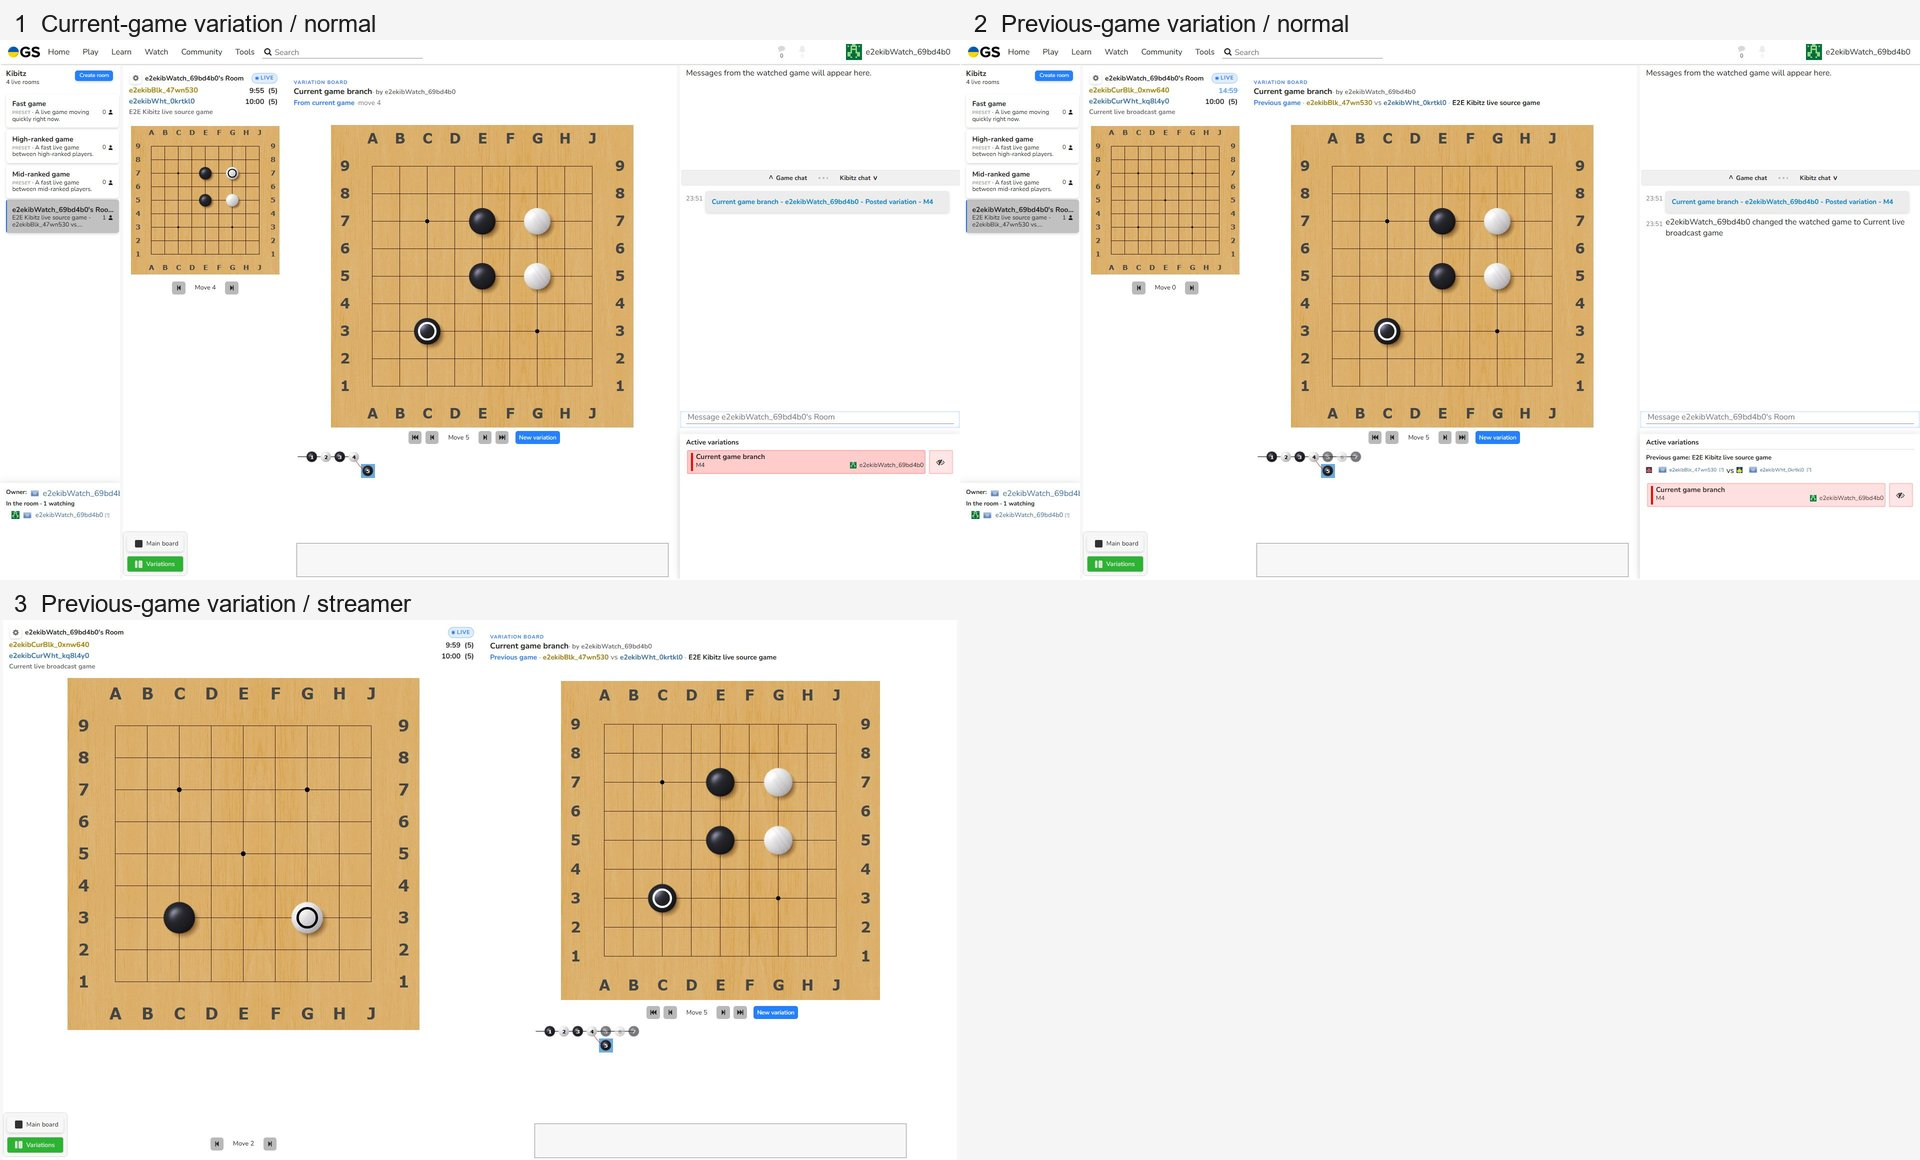
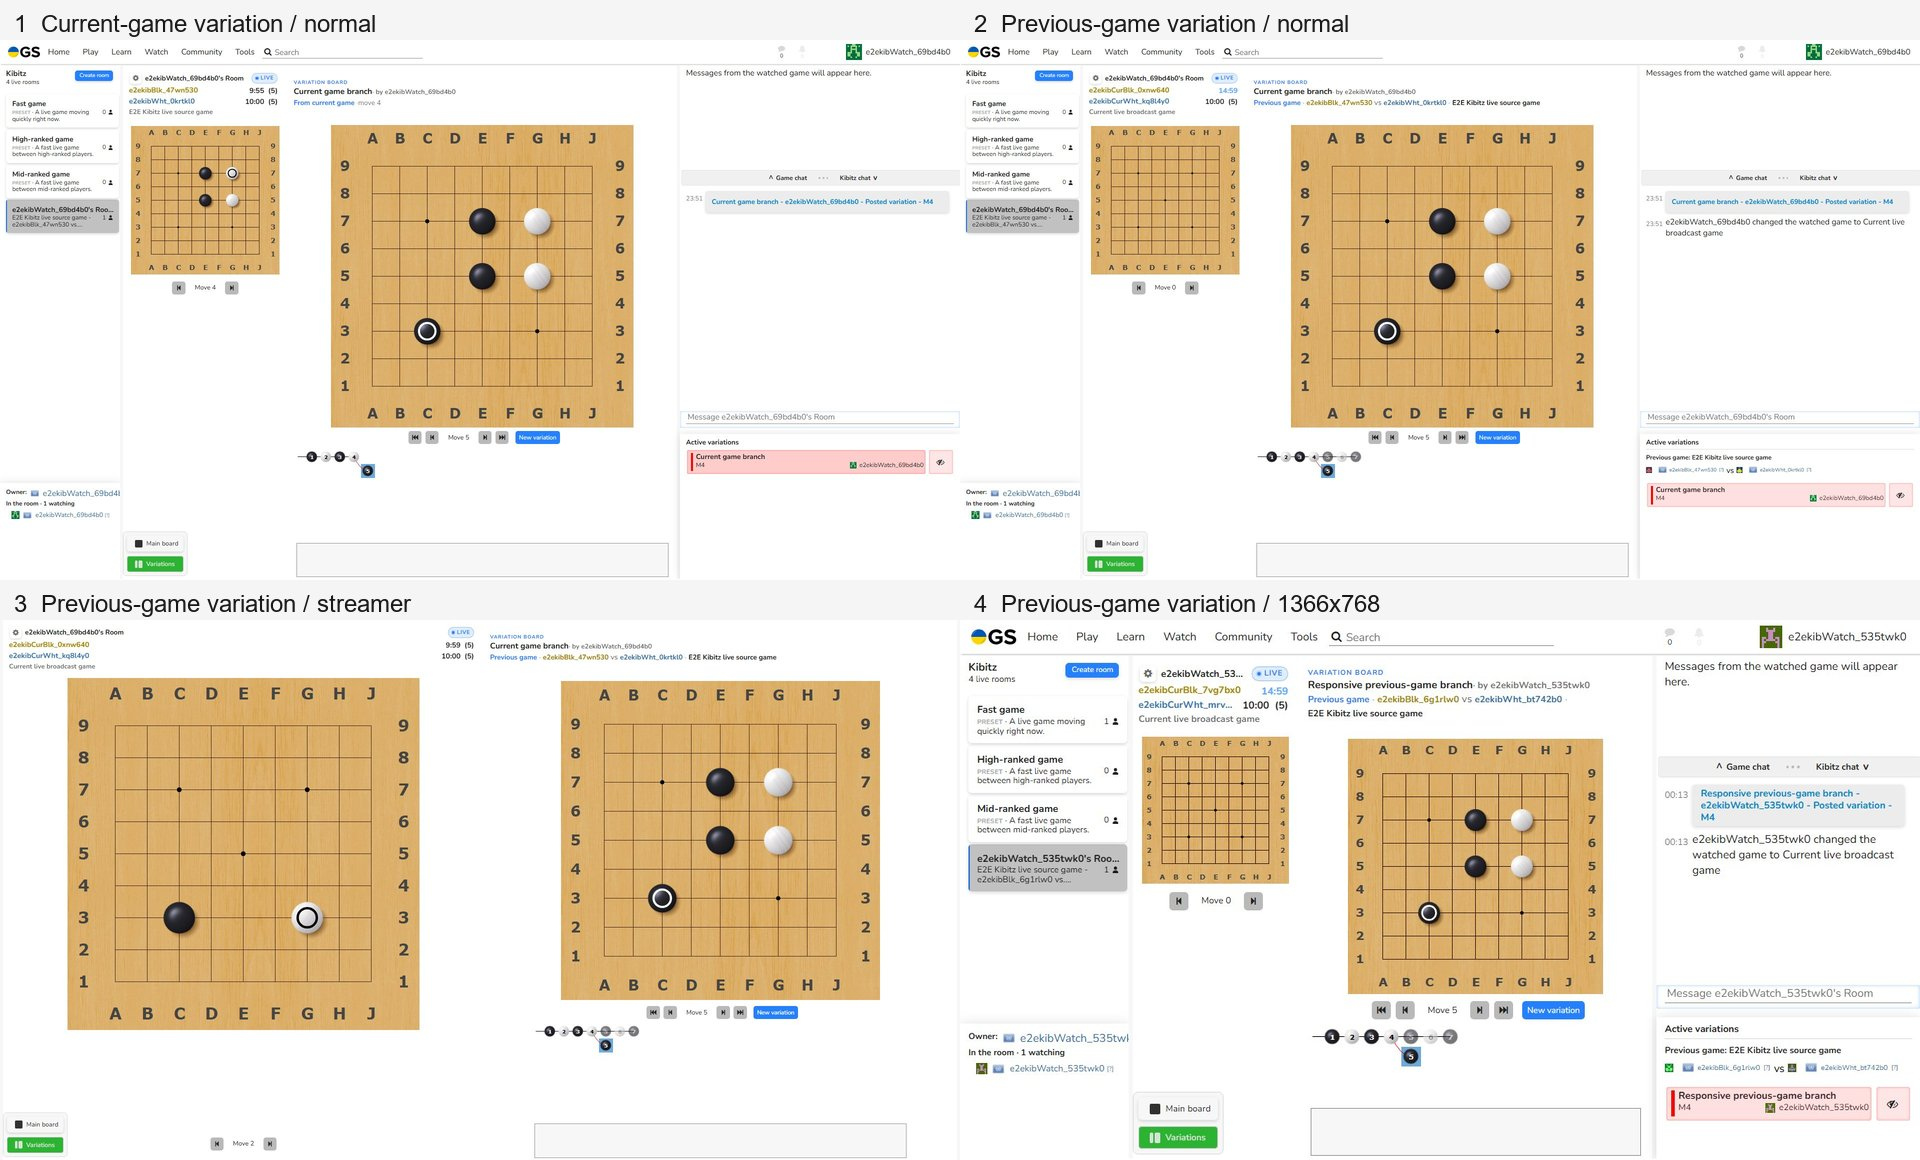
fix: preserve Kibitz variation header inset

diff --git a/src/views/Kibitz/KibitzDesktopCompareHeader.css b/src/views/Kibitz/KibitzDesktopCompareHeader.css
@@ -271,10 +271,6 @@
         padding-right: 0.5rem;
     }
 
-    .KibitzDesktopCompareHeader-variation {
-        padding-left: 0.75rem;
-    }
-
     .KibitzDesktopCompareHeader-mainGameLinkRow {
         margin-top: 0.18rem;
     }

diff --git a/docs/kibitz-header-design/real/README.md b/docs/kibitz-header-design/real/README.md
@@ -4,7 +4,7 @@
 
 - Branch: `codex/kibitz-header-design`
 - Starting SHA: `8d9fefa61fe8d63117c0b5798baaf53d699c1a72`
-- Resulting SHA for the capture artifacts: `74e80c4f9a14c29369e0e6a714f07b51d52eea9d`
+- Resulting SHA for the capture artifacts: `74e80c4f945394f64e26632c74e4b41f4a9fa026`
 
 ## Environment
 
@@ -12,7 +12,7 @@
 - Frontend: local Vite development server on port 8084
 - Backend: beta (`OGS_BACKEND=BETA`), with live beta API and websocket services
 - Browser: authenticated Playwright Chromium
-- Viewport: `1920x1080` for every screenshot
+- Viewports: `1920x1080` for the first three screenshots; `1366x768` for the responsive screenshot
 - State: created through the existing authenticated Kibitz e2e flow using five fresh beta test users; no fake boards, CSS board illustrations, or fixture route were used
 - Streamer mode: enabled through the real room-settings checkbox while the historical variation was selected
 
@@ -26,17 +26,19 @@
 - Previous source-game title: `E2E Kibitz live source game`
 - Historical variation ID: `2ll.VUI5vYB` (source game `21223`, starting at move 4)
 - Additional current-game variation used for switching validation: `2ll.VUI63hY` (source game `21224`, starting at move 2)
+- Responsive capture run: previous source game `21226` (`e2ekibBlk_6g1rlw0` vs `e2ekibWht_bt742b0`), current game `21227` (`e2ekibCurBlk_7vg7bx0` vs `e2ekibCurWht_mrv0pd0`), variation title `Responsive previous-game branch`
 
 ## Screenshots
 
-| File                                                | State                                                                                                                                              |
-| --------------------------------------------------- | -------------------------------------------------------------------------------------------------------------------------------------------------- |
-| `01-current-variation-real-1920x1080.jpg`           | Current-game variation, normal mode; the live game remains on the small left board and the current source line reads `From current game · move 4`. |
-| `02-previous-variation-real-1920x1080.jpg`          | Historical variation, normal mode; the left header names the new live game while the right header names the previous source players and title.     |
-| `03-previous-variation-streamer-real-1920x1080.jpg` | The same historical variation in streamer mode; the boards and header tracks expand to approximately equal widths.                                 |
-| `contact-sheet-real.jpg`                            | Compressed contact sheet of the three real captures.                                                                                               |
+| File                                                | State                                                                                                                                               |
+| --------------------------------------------------- | --------------------------------------------------------------------------------------------------------------------------------------------------- |
+| `01-current-variation-real-1920x1080.jpg`           | Current-game variation, normal mode; the live game remains on the small left board and the current source line reads `From current game · move 4`.  |
+| `02-previous-variation-real-1920x1080.jpg`          | Historical variation, normal mode; the left header names the new live game while the right header names the previous source players and title.      |
+| `03-previous-variation-streamer-real-1920x1080.jpg` | The same historical variation in streamer mode; the boards and header tracks expand to approximately equal widths.                                  |
+| `04-previous-variation-real-1366x768.jpg`           | Historical variation, normal mode at the narrower desktop viewport; the live and historical contexts remain readable with the full variation inset. |
+| `contact-sheet-real.jpg`                            | Compressed contact sheet of the four real captures.                                                                                                 |
 
-All three screenshots contain the real `KibitzInner`, `KibitzRoomStage`,
+All four screenshots contain the real `KibitzInner`, `KibitzRoomStage`,
 `KibitzBoard`, `KibitzDesktopCompareHeader`, and painted Goban SVGs. The
 query-gated `KibitzHeaderDesignFixture` was not loaded.
 
@@ -61,5 +63,6 @@ instrumentation enabled was Kibitz's existing variation debug log, used to
 record the posted IDs; it did not inject room, game, player, clock, or
 variation state.
 
-No narrower viewport was added because `1920x1080` exposed the relevant normal
-and streamer layouts without a separate desktop-only failure.
+The `1366x768` capture was added to exercise the desktop layout below the former
+`1700px` breakpoint and verify that the variation context keeps its full optical
+inset without introducing truncation or overlap.
